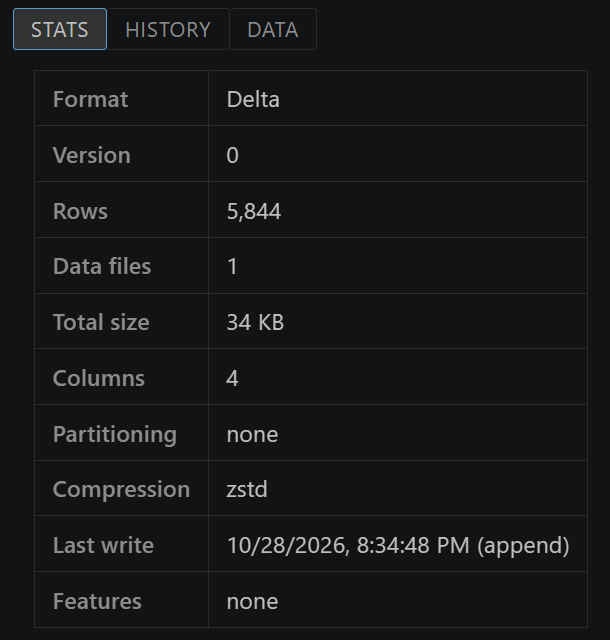
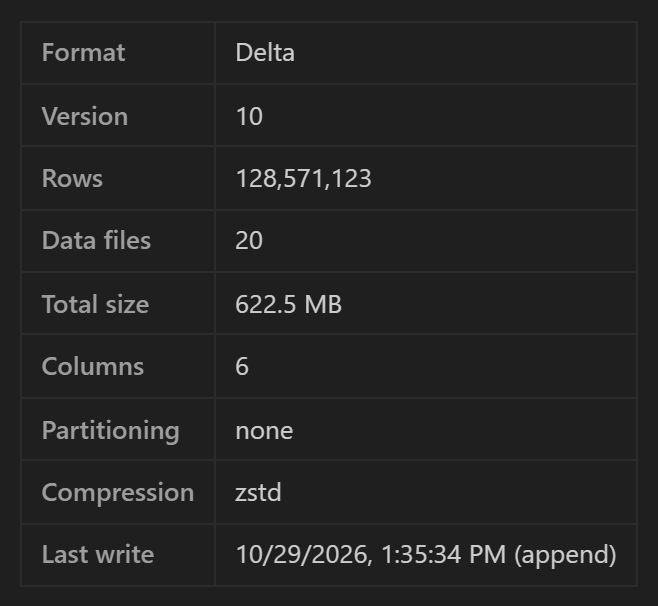
The website's screenshots are the app's own, with Open in Excel and Export to Fabric
Every picture is now taken in the app's window on real data: the home page's query, a semantic
model's pivot and diagram, a Delta table's stats and history, and a query's plan. Open in Excel
gets a section with Excel's own window, opened from the app, and Export to Fabric gets one too.
scripts/website-shots.mjs takes them again in the installed app, so they can follow the UI.

diff --git a/website/features.html b/website/features.html
@@ -44,8 +44,23 @@ FROM semanticmodel.aemo.nem GROUP BY ALL;</code></pre>
         <p>See its tables and relationships, then drag fields into a table or a chart, with the SQL behind it.</p>
       </div>
       <div class="shots">
-        <a class="shot" href="img/pivot.png"><img src="img/pivot.png" alt="The Pivot page: fields on the left, and a line chart of Total Amount by date." width="1879" height="1057" loading="lazy"></a>
-        <a class="shot" href="img/model.png"><img src="img/model.png" alt="The Model page: a fact table joined to its date and zone dimensions." width="1458" height="300" loading="lazy"></a>
+        <a class="shot" href="img/pivot.png"><img src="img/pivot.png" alt="The app with a semantic model's Pivot open: its fields on the left, and an area chart of Mwh by date for each region." width="2720" height="1720" loading="lazy"></a>
+        <a class="shot" href="img/model.png"><img src="img/model.png" alt="The model's diagram: a summary fact table joined to its calendar, duid and mstime dimensions." width="1062" height="358" loading="lazy"></a>
+      </div>
+    </section>
+
+    <section class="feature">
+      <div>
+        <h2>Open in Excel</h2>
+        <p>One click on a model's Pivot opens a new workbook with a PivotTable on the model, its measures and its dimensions. It runs on your machine, so it works offline too. On Windows.</p>
+      </div>
+      <a class="shot" href="img/excel.png"><img src="img/excel.png" alt="Excel with a PivotTable on the semantic model: Mwh by fuel and region, and the PivotTable Fields list." width="2392" height="1202" loading="lazy"></a>
+    </section>
+
+    <section class="feature stacked">
+      <div>
+        <h2>Export to Fabric</h2>
+        <p>Publish a model's Pivot as a Fabric app of its own. It opens in the browser with a Fabric sign-in, and pivots the model there, with nothing to install. The model isn't copied: the app reads it in its lakehouse.</p>
       </div>
     </section>
 
@@ -55,8 +70,8 @@ FROM semanticmodel.aemo.nem GROUP BY ALL;</code></pre>
         <p>Columns, row count, first rows, and Delta or Iceberg stats and history.</p>
       </div>
       <div class="shots pair">
-        <a class="shot" href="img/stats.png"><img src="img/stats.png" alt="A Delta table's Stats tab: format, version, rows, data files, size and last write." width="610" height="640" loading="lazy"></a>
-        <a class="shot" href="img/history.png"><img src="img/history.png" alt="A Delta table's History tab: each commit with its time, operation, rows added, files and engine." width="1613" height="745" loading="lazy"></a>
+        <a class="shot" href="img/stats.png"><img src="img/stats.png" alt="A Delta table's Stats tab: format, version, 128 million rows, data files, size and last write." width="658" height="606" loading="lazy"></a>
+        <a class="shot" href="img/history.png"><img src="img/history.png" alt="A Delta table's History tab: each commit with its time, operation, rows added, files and engine." width="1936" height="992" loading="lazy"></a>
       </div>
     </section>
 
@@ -65,7 +80,7 @@ FROM semanticmodel.aemo.nem GROUP BY ALL;</code></pre>
         <h2>See where the time went</h2>
         <p>A query's plan shows a timeline of each step and its most expensive operators.</p>
       </div>
-      <a class="shot" href="img/profile.png"><img src="img/profile.png" alt="A query profile: a timeline of planning, scan, aggregate and join steps, above a table of the most expensive operators." width="2351" height="552" loading="lazy"></a>
+      <a class="shot" href="img/profile.png"><img src="img/profile.png" alt="A query's plan: a join over 128 million rows in under 10 seconds, a timeline of its steps, and its most expensive operators." width="1936" height="1310" loading="lazy"></a>
     </section>
 
     <section class="notes">

diff --git a/website/index.html b/website/index.html
@@ -48,7 +48,7 @@
     </section>
 
     <section class="get">
-      <a class="shot" href="img/query.png"><img src="img/query.png" alt="The OneLake Studio tree of workspaces beside a tab running SHOW ALL TABLES, which lists tables across a warehouse and a SQL database." width="2122" height="1101"></a>
+      <a class="shot" href="img/query.png"><img src="img/query.png" alt="The OneLake Studio app: the tree of workspaces beside a tab running SHOW ALL TABLES, which lists every table the account can read." width="2720" height="1720"></a>
       <p><a href="features.html">See what it does</a></p>
     </section>
   </main>

diff --git a/website/style.css b/website/style.css
@@ -259,7 +259,7 @@ pre code {
 
 /* The two columns are the images' own proportions, so they come out the same height. */
 .shots.pair {
-  grid-template-columns: minmax(0, 953fr) minmax(0, 2165fr);
+  grid-template-columns: minmax(0, 1086fr) minmax(0, 1952fr);
   align-items: start;
 }
 

diff --git a/docs/ARCHITECTURE.md b/docs/ARCHITECTURE.md
@@ -792,7 +792,7 @@ every window. The rest apply at once.
 | [`fabric_app/`](../fabric_app/) | The template for an exported app. |
 | [`claude-skill/`](../claude-skill/) | The agent skill. |
 | [`test/`](../test/) | `js/`: the `node --test` suite and browser runners. Its `cli*.test.mjs` run `bin/cli.mjs` as a process. `sql/`: SQL statements and their answers (sqllogictest), run through the agent's `sql`. `e2e/`: the vsix in a real VS Code server and headless Chrome, signed out, and signed in with no internet. |
-| [`scripts/`](../scripts/) | Packaging: bundle, stage-webview, vendor, function-bundle, fetch-extensions, check-binding, fetch-binding, fetch-retry, make-icon. The website: build-website. |
+| [`scripts/`](../scripts/) | Packaging: bundle, stage-webview, vendor, function-bundle, fetch-extensions, check-binding, fetch-binding, fetch-retry, make-icon. The website: build-website, and website-shots, which takes its screenshots in the installed app. |
 | [`media/`](../media/) | Icons. |
 | `docs/` | This file, the naming contract, the catalog specification and the changelog, which the website renders as pages of its own; an index and a screenshot for GitHub. |
 | [`website/`](../website/) | The public website: static HTML and its screenshots, built with the docs by `scripts/build-website.mjs` and deployed by `.github/workflows/pages.yml`. |
